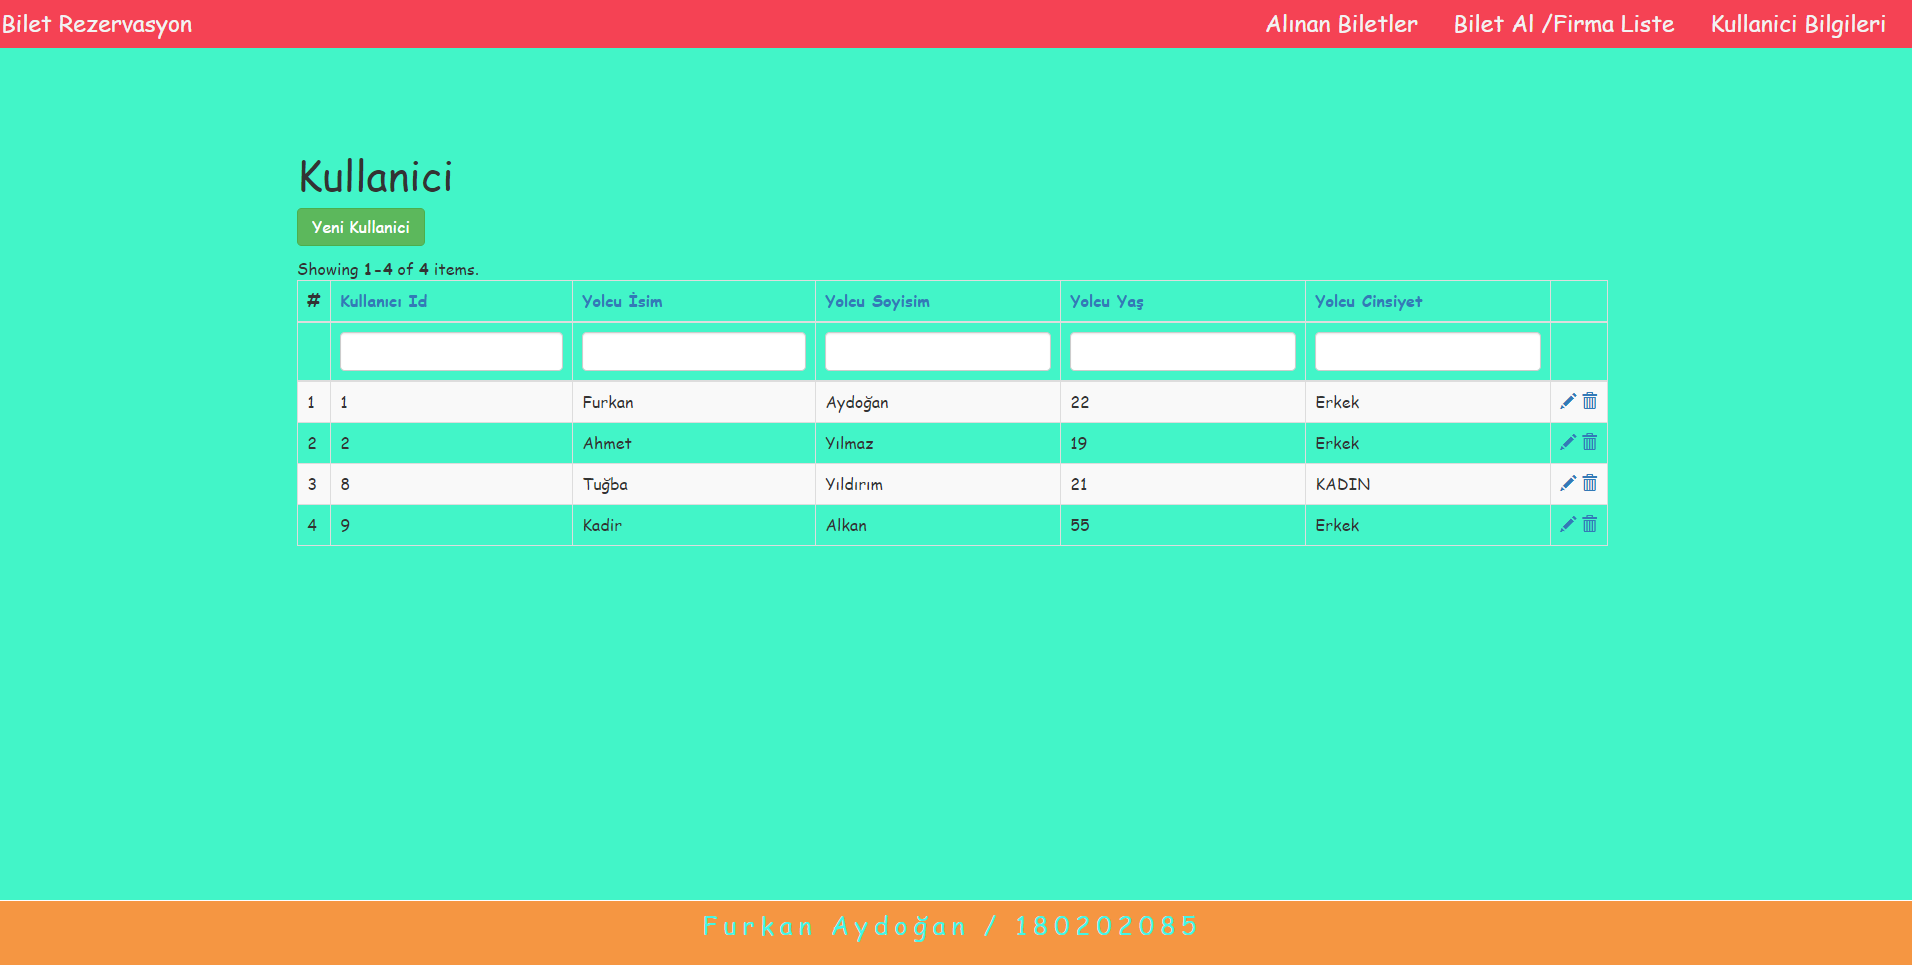
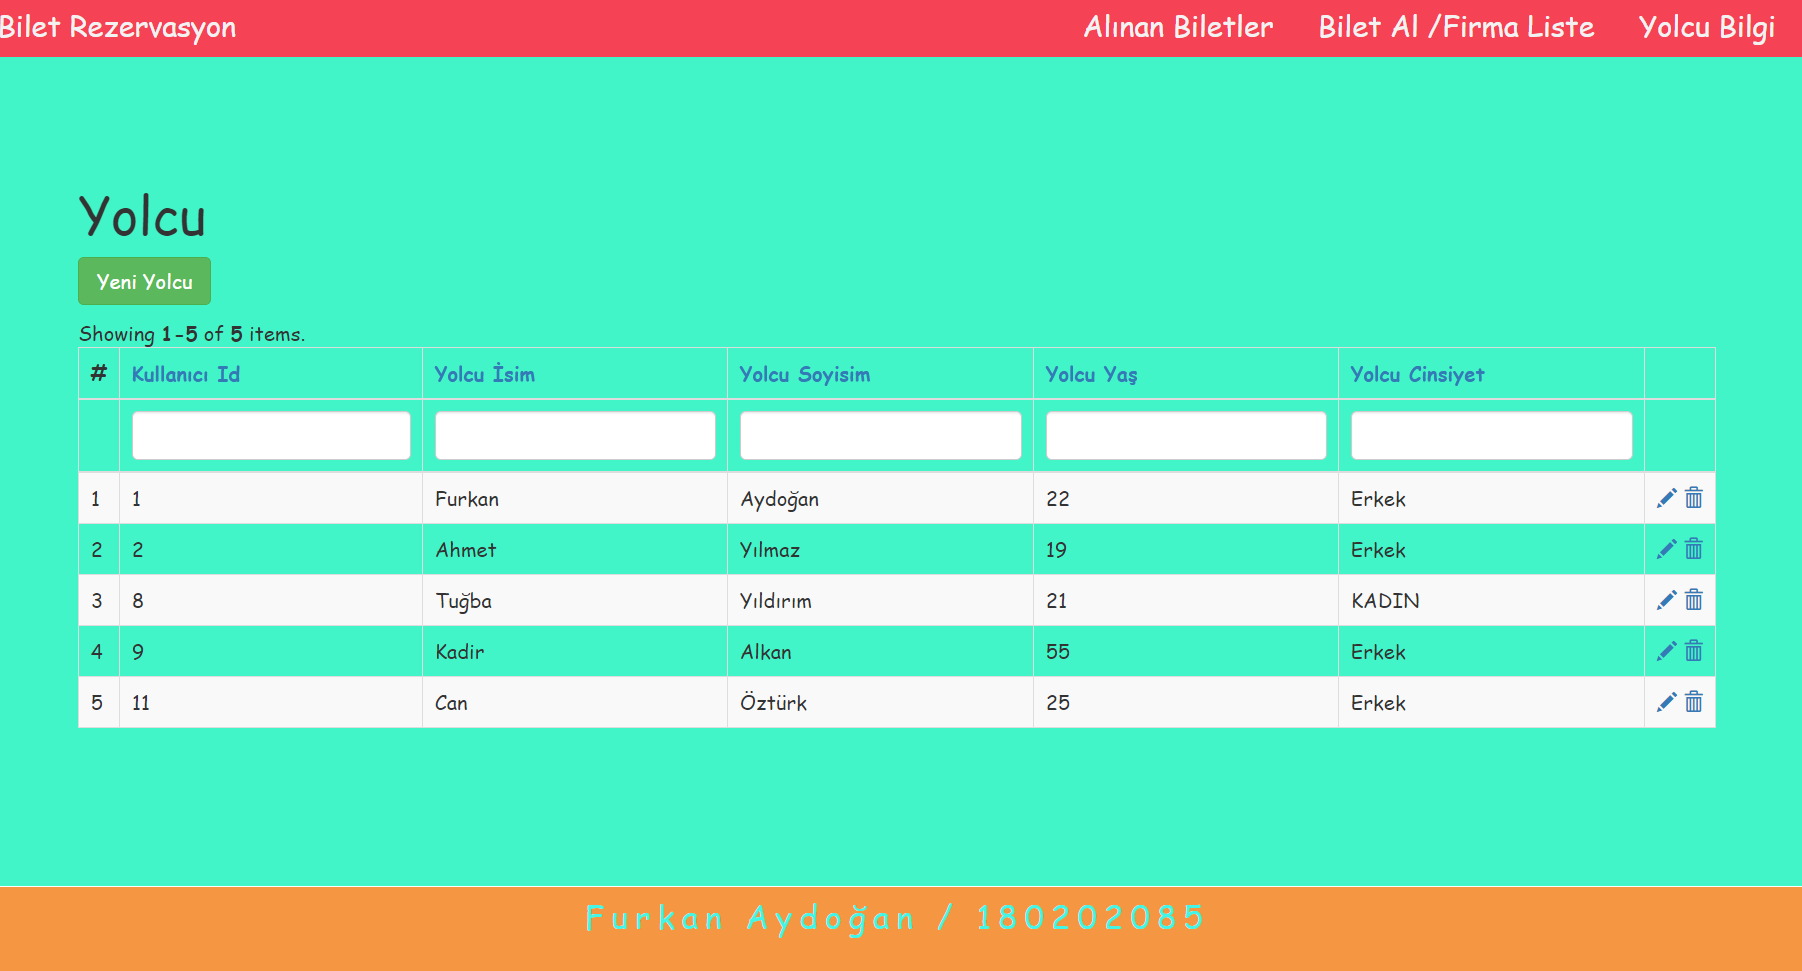
Add files via upload

Changed region(s): [[0.0311, 0.1554, 0.9634, 0.7772], [0.0, 0.0, 1.0, 0.0622], [0.0, 0.9016, 1.0, 0.9948]]

diff --git a/src/views/kullanici/index.php b/src/views/kullanici/index.php
@@ -8,7 +8,7 @@ use yii\grid\GridView;
 /* @var $searchModel furkanaydgn\deneme\models\KullaniciSearch */
 /* @var $dataProvider yii\data\ActiveDataProvider */
 
-$this->title = 'Kullanici';
+$this->title = 'Yolcu';
 $this->params['breadcrumbs'][] = $this->title;
 ?>
 <div class="kullanici-index">
@@ -16,7 +16,7 @@ $this->params['breadcrumbs'][] = $this->title;
     <h1><?= Html::encode($this->title) ?></h1>
 
     <p>
-        <?= Html::a('Yeni Kullanici', ['create'], ['class' => 'btn btn-success']) ?>
+        <?= Html::a('Yeni Yolcu', ['create'], ['class' => 'btn btn-success']) ?>
     </p>
 
     <?php // echo $this->render('_search', ['model' => $searchModel]); ?>

diff --git a/src/views/Alinanbiletler/_form.php b/src/views/Alinanbiletler/_form.php
@@ -3,7 +3,8 @@
 
 use yii\helpers\Html;
 use yii\widgets\ActiveForm;
-
+use yii\helpers\ArrayHelper;
+use furkanaydgn\deneme\models\Firmalistesi;
 /* @var $this yii\web\View */
 /* @var $model furkanaydgn\deneme\models\Alinanbiletler */
 /* @var $form yii\widgets\ActiveForm */
@@ -21,7 +22,8 @@ use yii\widgets\ActiveForm;
 
     <?= $form->field($model, 'usercinsiyet')->textInput(['maxlength' => true]) ?>
 
-    <?= $form->field($model, 'fid')->textInput() ?>
+    <?= $form->field($model, 'fid')->dropDownList(ArrayHelper::map(Firmalistesi::find()->all(),'fid','fad'),['prompt'=>'firmalistesi']); ?>
+
 
     <?= $form->field($model, 'biletsayisi')->textInput() ?>
 

diff --git a/src/views/kullanici/update.php b/src/views/kullanici/update.php
@@ -6,7 +6,7 @@ use yii\helpers\Html;
 /* @var $this yii\web\View */
 /* @var $model furkanaydgn\deneme\models\Kullanici */
 
-$this->title = 'Kullanici Güncelle ' . $model->userssim. " ". $model->useroyisim ;
+$this->title = 'Yolcu Güncelle ' . $model->userssim. " ". $model->useroyisim ;
 $this->params['breadcrumbs'][] = ['label' => 'Kullanici', 'url' => ['index']];
 $this->params['breadcrumbs'][] = ['label' => $model->uid, 'url' => ['view', 'id' => $model->uid]];
 $this->params['breadcrumbs'][] = 'Update';

diff --git a/src/widgets/navbar.php b/src/widgets/navbar.php
@@ -69,7 +69,7 @@ float:left;
 
 <div class="topnav" style="text-align: right">
  <a id="home" href=index.php?r=deneme/firmalistesi>Bilet Rezervasyon</a>
-  <a href="index.php?r=deneme/kullanici">Kullanici Bilgileri</a>
+  <a href="index.php?r=deneme/kullanici">Yolcu Bilgi</a>
   <a href="index.php?r=deneme/firmalistesi">Bilet Al /Firma Liste</a>
   <a href="index.php?r=deneme/alinanbiletler">Alınan Biletler</a>
 </div>

diff --git a/src/views/kullanici/view.php b/src/views/kullanici/view.php
@@ -8,7 +8,7 @@ use furkanaydgn\deneme\models\Firmalistesi;
 /* @var $model furkanaydgn\deneme\models\Kullanici */
 
 $this->title = $model->uid;
-$this->params['breadcrumbs'][] = ['label' => 'Kullanici', 'url' => ['index']];
+$this->params['breadcrumbs'][] = ['label' => 'Yolcu', 'url' => ['index']];
 $this->params['breadcrumbs'][] = $this->title;
 \yii\web\YiiAsset::register($this);
 ?>

diff --git a/src/views/kullanici/create.php b/src/views/kullanici/create.php
@@ -6,7 +6,7 @@ use yii\helpers\Html;
 /* @var $this yii\web\View */
 /* @var $model furkanaydgn\deneme\models\Kullanici */
 
-$this->title = ' Kullanici Ekle';
+$this->title = ' Yolcu Ekle';
 $this->params['breadcrumbs'][] = ['label' => 'Kullanici', 'url' => ['index']];
 $this->params['breadcrumbs'][] = $this->title;
 ?>

diff --git a/README.md b/README.md
@@ -1,9 +1,9 @@
 # yii2-deneme
 
-
+#### Furkan Aydoğan / 180202085 
 
 Bu modül online Otobüs Bilet Rezervasyon sayfasının ana ekranı olarak tasarlanmıştır. 
-Modül admin tarafından erişilmek üzere tasarlanmıştır. Yolcu ve Otobüs Firması ekleme
+Modül admin tarafından erişilmek üzere tasarlanmıştır. Yolcu veya Otobüs Firması ekleme
 çıkartma veya düzenleme işlemlerini sadece admin yapabilir.
 Yolcu Bilgi sayfasından "Yeni Kullanıcı" butonuna tıklayarak yeni yolcu eklenebilir
 veya hali hazırda eklenmiş olan yolcuların bilgilerine erişim sağlanabilir .Aynı ekrandan 
@@ -44,21 +44,49 @@ composer update
 
 
 ### Migration'larla tabloların oluşturulması ve kayıt eklenmesi
-Modülün kullanılabilmesi için gerekli tabloların oluşturulması ve örnek kayıtların girilmesi için aşağıdaki kodlar çalıştırılmalıdır. RBAC, tablolar üzerinden yapıldığından migration kodlarının çalıştırılmasıyla tablolar, kurallar ve ilişkiler oluşturuluyor.
+Modülün kullanılabilmesi için gerekli tabloların oluşturulması ve örnek kayıtların girilmesi için aşağıdaki kodlar çalıştırılmalıdır. 
 ```
 vagrant ssh
 php yii migrate/up yolcu --migrationPath=@vendor/furkanaydgn/yii2-deneme/src/migrate
 php yii migrate/up firma --migrationPath=@vendor/furkanaydgn/yii2-deneme/src/migrate
 ```
 
+
+### Veritabanı ve Foreign Key ilişkisi
+
+![enter image description here](https://github.com/furkanaydgn/yii2-deneme/blob/main/src/images/7.png)
+
 ### Backend
 
 Bütün modül backend  altında geliştirilmiştir.
 furkanaydgn/deneme/migrate adresinde varolan ürün kayıtlarını görebilir, 
-Nav-Bar 'daki Alınan Biletler Sayfası ile veritabanındaki alınan biletlere erişilir ."Yeni bilet eklemesi admin tarafından yapılabilir.
-Nav-Bar 'daki Bilet Al / Firma Liste Sayfası ile admin tarafından "Yeni Firma ekle " butonu ile veritabanına yeni bir firma eklenebilir yine aynı şekilde "bilet Al " butonuna tıklanarak bir yolcu için bir veya birden daha fazla bilet alınabilir.
-Nav-Bar 'daki Yolcu Bilgi Sayfası ile bütün biletleri alınmış yolcuların bilgileri görüntülenebilir ve admin tarafından yeni bir yolcu eklemesi veya düzenleme ,silme işlemleri yapılabilir
+###### Nav-Bar 'daki Alınan Biletler Sayfası ile veritabanındaki alınan biletlere erişilir ."Yeni bilet eklemesi admin tarafından yapılabilir.
+###### Nav-Bar 'daki Bilet Al / Firma Liste Sayfası ile admin tarafından "Yeni Firma ekle " butonu ile veritabanına yeni bir firma eklenebilir yine aynı şekilde "bilet Al " butonuna tıklanarak bir yolcu için bir veya birden daha fazla bilet alınabilir.
+###### Nav-Bar 'daki Yolcu Bilgi Sayfası ile bütün biletleri alınmış yolcuların bilgileri görüntülenebilir ve admin tarafından yeni bir yolcu eklemesi veya düzenleme ,silme işlemleri yapılabilir
 
+
+Ana Sayfaya erişim için alttaki linke gidilmesi gerekmektedir.
+```
+http://advanced/backend/web/index.php?r=deneme/firmalistesi
+```
+####### Alınan Biletler
 ![enter image description here](https://github.com/furkanaydgn/yii2-deneme/blob/main/src/images/1.png)
+####### Alınmış olan bilete ait detaylar
+![enter image description here](https://github.com/furkanaydgn/yii2-deneme/blob/main/src/images/5.png)
+
+####### Yolcu Ekleme Sayfası
+![enter image description here](https://github.com/furkanaydgn/yii2-deneme/blob/main/src/images/4.png)
+
+####### Otobüs Firmasına Ait Detaylar
+![enter image description here](https://github.com/furkanaydgn/yii2-deneme/blob/main/src/images/6.png)
+
+
+####Widget
+Widget kullanımına örnek olarak gii'nin oluşturduğu gridview özelleştirilerek kullanıldı. Ek olarak Nav-Bar widgetları eklendi.
+![enter image description here](https://github.com/furkanaydgn/yii2-deneme/blob/main/src/images/3.png)
+
+##### Home_page
+
+![enter image description here](https://github.com/furkanaydgn/yii2-deneme/blob/main/src/images/2.png)
 
 
